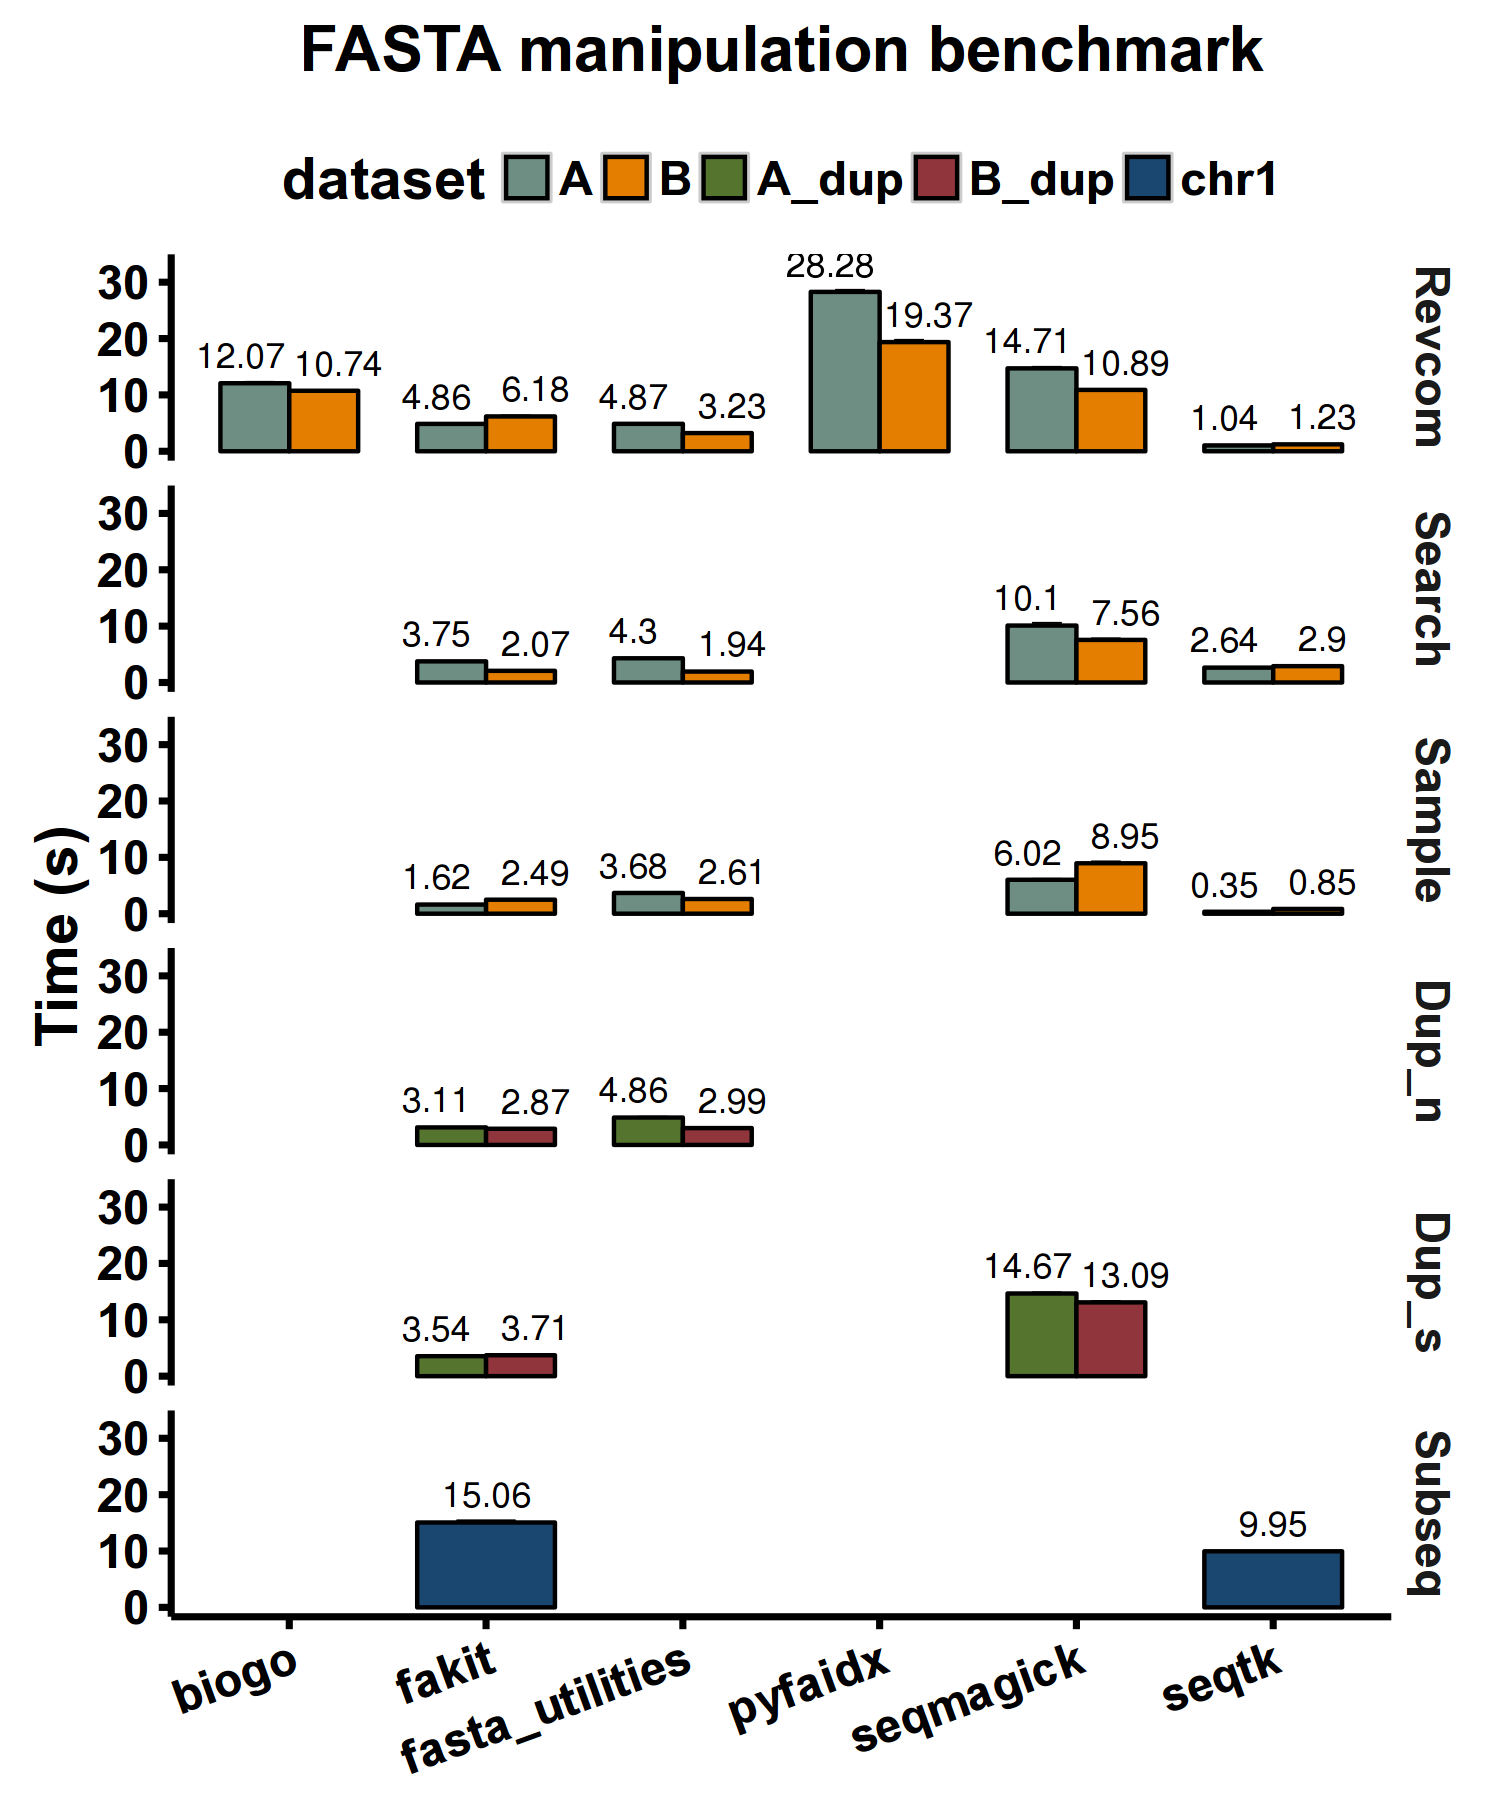
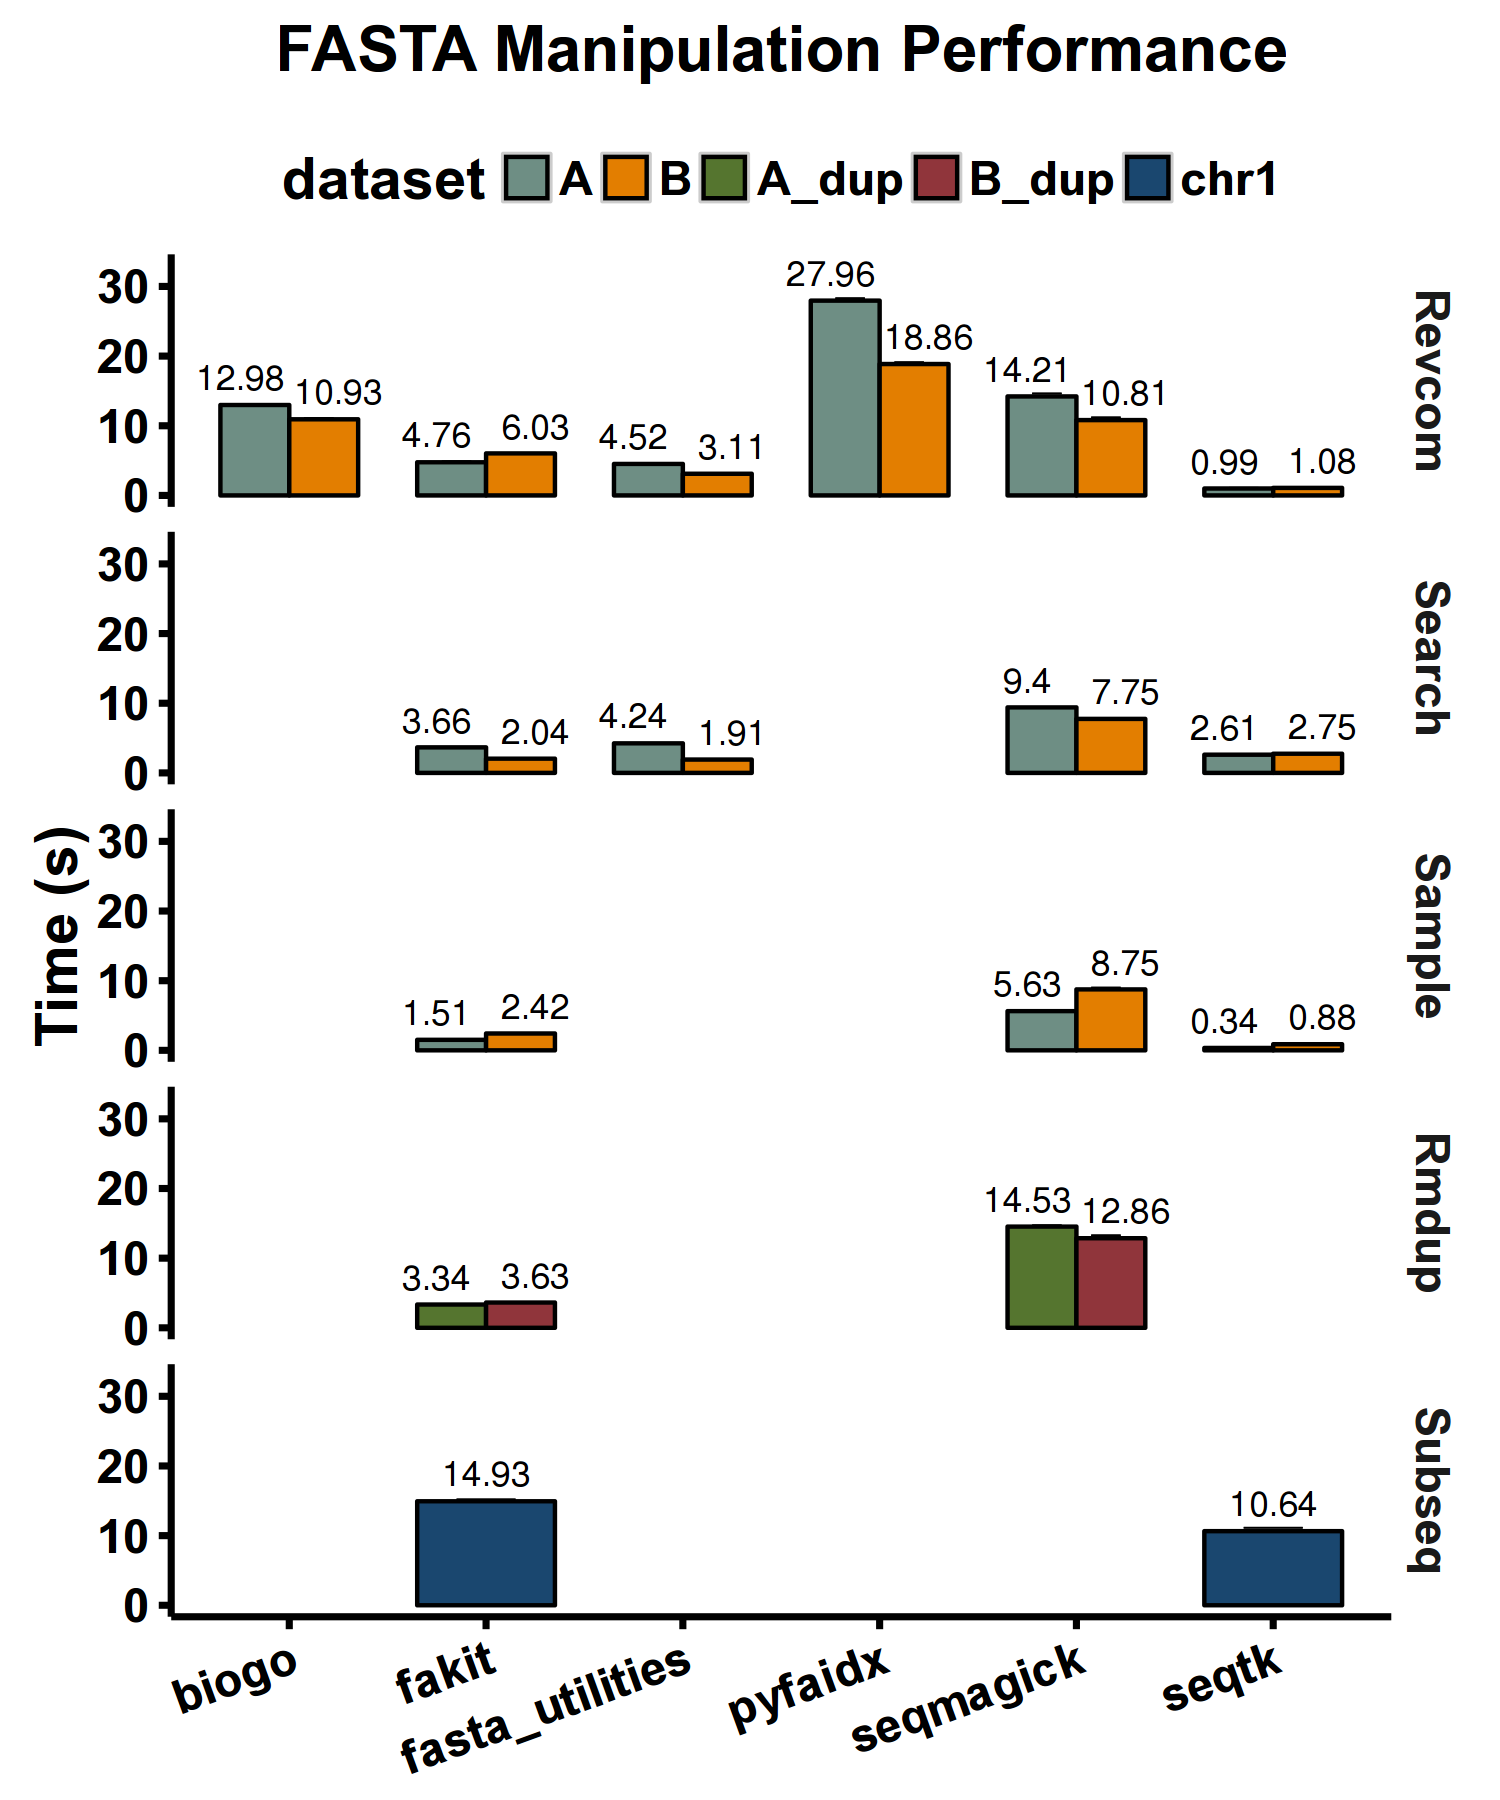
rerun benchmark with new version, add multi-threads benchmark

diff --git a/benchmark/index.html b/benchmark/index.html
@@ -143,7 +143,7 @@
         
             <li><a href="#platform">Platform</a></li>
         
-            <li><a href="#automatic-benchmark-script">Automatic benchmark script</a></li>
+            <li><a href="#automatic-benchmark-and-ploting-scripts">Automatic benchmark and ploting scripts</a></li>
         
             <li><a href="#test-1-reverse-complement">Test 1. Reverse Complement</a></li>
         
@@ -166,7 +166,7 @@
 <h2 id="softwares">Softwares</h2>
 <ol>
 <li><a href="https://github.com/shenwei356/fakit">fakit</a>. (Go).
-   Version <a href="https://github.com/shenwei356/fakit/releases/tag/v0.1.4">v0.1.4</a>.</li>
+   Version <a href="https://github.com/shenwei356/fakit/releases/tag/v0.1.4.1">v0.1.4.1</a>.</li>
 <li><a href="https://github.com/jimhester/fasta_utilities">fasta_utilities</a>. (Perl).
    Version <a href="https://github.com/jimhester/fasta_utilities/tree/3dcc0bc6bf1e97839476221c26984b1789482579">3dcc0bc</a>.
    Lots of dependencies to install_.</li>
@@ -213,7 +213,7 @@
 <td>Yes</td>
 </tr>
 <tr>
-<td align="left">Validate</td>
+<td align="left">Validate bases</td>
 <td>Yes</td>
 <td>--</td>
 <td>Yes</td>
@@ -258,7 +258,7 @@
 <td>--</td>
 </tr>
 <tr>
-<td align="left">Search</td>
+<td align="left">Search by motifs</td>
 <td>Yes</td>
 <td>Yes</td>
 <td>--</td>
@@ -267,7 +267,7 @@
 <td>Yes</td>
 </tr>
 <tr>
-<td align="left">Sample</td>
+<td align="left">Sample seqs</td>
 <td>Yes</td>
 <td>Yes</td>
 <td>--</td>
@@ -285,7 +285,7 @@
 <td>Yes</td>
 </tr>
 <tr>
-<td align="left">Deduplicate</td>
+<td align="left">Deduplicate seqs</td>
 <td>Yes</td>
 <td>Partly</td>
 <td>--</td>
@@ -294,7 +294,7 @@
 <td>--</td>
 </tr>
 <tr>
-<td align="left">Split</td>
+<td align="left">Split seqs</td>
 <td>Yes</td>
 <td>Yes</td>
 <td>--</td>
@@ -312,7 +312,7 @@
 <td>--</td>
 </tr>
 <tr>
-<td align="left">Shuffle</td>
+<td align="left">Shuffle seqs</td>
 <td>Yes</td>
 <td>--</td>
 <td>--</td>
@@ -321,9 +321,9 @@
 <td>--</td>
 </tr>
 <tr>
-<td align="left">Sort</td>
+<td align="left">Sort seqs</td>
 <td>Yes</td>
-<td>--</td>
+<td>Yes</td>
 <td>--</td>
 <td>--</td>
 <td>Yes</td>
@@ -348,7 +348,7 @@
 <td>--</td>
 </tr>
 <tr>
-<td align="left">Clean</td>
+<td align="left">Clean bases</td>
 <td>Yes</td>
 <td>Yes</td>
 <td>Yes</td>
@@ -384,7 +384,7 @@
 <td>--</td>
 </tr>
 <tr>
-<td align="left">Rename name</td>
+<td align="left">Rename head</td>
 <td>--</td>
 <td>Yes</td>
 <td>--</td>
@@ -460,14 +460,14 @@ dataset_B.fa         DNA           6    46,709,983    59,698,489    80,373,285
 <li>Perl: perl 5, version 22, subversion 1 (v5.22.1) built for x86_64-linux-thread-multi</li>
 <li>Python: Python 2.7.10 (default, Sep  8 2015, 17:20:17) [GCC 5.1.1 20150618 (Red Hat 5.1.1-4)] on linux2</li>
 </ul>
-<h2 id="automatic-benchmark-script">Automatic benchmark script</h2>
+<h2 id="automatic-benchmark-and-ploting-scripts">Automatic benchmark and ploting scripts</h2>
 <p>Scripts are available at:  <a href="https://github.com/shenwei356/fakit/tree/master/benchmark">https://github.com/shenwei356/fakit/tree/master/benchmark</a></p>
 <h2 id="test-1-reverse-complement">Test 1. Reverse Complement</h2>
 <h3 id="commands">Commands</h3>
-<p><code>revcom_biogo</code>, a tool written in Golang using <a href="https://github.com/biogo/biogo">biogo</a> package
- (<a href="https://github.com/shenwei356/fakit/blob/master/benchmark/revcom_biogo.go">source</a>,
- <a href="https://github.com/shenwei356/fakit/raw/master/benchmark/revcom_biogo">binary</a> )
-is also used.</p>
+<p><code>revcom_biogo</code> (<a href="https://github.com/shenwei356/fakit/blob/master/benchmark/revcom_biogo.go">source</a>,
+ <a href="https://github.com/shenwei356/fakit/raw/master/benchmark/revcom_biogo">binary</a> ), 
+ a tool written in Golang using <a href="https://github.com/biogo/biogo">biogo</a> package,
+ is also used for comparison of FASTA file parsing performance.</p>
 <pre><code>echo == fakit
 for f in dataset_{A,B}.fa; do echo data: $f; time fakit seq -r -p $f &gt; $f.fakit.rc; done
 
@@ -567,14 +567,6 @@ echo == seqmagick
 for f in dataset_{A,B}_dup.fasta; do echo data: $f; time seqmagick convert --deduplicate-sequences $f - &gt; $f.rmdup.seqmagick.fa; done
 </code></pre>
 
-<p>By name</p>
-<pre><code>echo == fakit
-for f in dataset_{A,B}_dup.fasta; do echo data: $f; time fakit rmdup -n $f &gt; $f.rmdup.fakit.fa; done
-
-echo == fasta_utilities
-for f in dataset_{A,B}_dup.fasta; do echo data: $f; time unique_headers.pl $f &gt; $f.rmdup.fautil.fa; done
-</code></pre>
-
 <h2 id="test-5-extract-subsequencs-by-bed-file">Test 5. Extract subsequencs by BED file</h2>
 <h3 id="commands_4">Commands</h3>
 <pre><code>echo ==  fakit
@@ -586,7 +578,12 @@ echo data: chr1.fa.gz; time seqtk subseq chr1.fa.gz chr1.bed.gz &gt; chr1.bed.gz
 
 <p>TODO: bedtools</p>
 <h2 id="result">Result</h2>
-<p><img alt="benchmark_colorful.png" src="../benchmark/benchmark_colorful.png" /></p></div>
+<p>All tests were repeated 4 times.</p>
+<h3 id="performance-comparison-with-other-tools">Performance comparison with other tools</h3>
+<p>Fakit used all CPUs (4 for my computer) by default.</p>
+<p><img alt="benchmark_colorful.png" src="../benchmark/benchmark_colorful.png" /></p>
+<h3 id="speedup-with-multi-threads">Speedup with multi-threads</h3>
+<p><img alt="benchmark_colorful.png" src="../benchmark/fakit_multi_threads/benchmark_colorful.png" /></p></div>
             
         </div>
 

diff --git a/index.html b/index.html
@@ -158,19 +158,30 @@
 <p>Documents  : <a href="http://shenwei356.github.io/fakit">http://shenwei356.github.io/fakit</a></p>
 <p>Source code: <a href="https://github.com/shenwei356/fakit">https://github.com/shenwei356/fakit</a></p>
 <h2 id="introduction">Introduction</h2>
+<p>FASTA is a basic format for storing nucleotide and protein sequences. 
+The manipulation of FASTA file includes converting, clipping, searching, filtering,
+deduplication, splitting, shuffling, sampling and so on. 
+Existed tools only implemented parts of the functions,
+and some of them are only available for specific operating systems. 
+Furthermore, the complicated installation process of dependencies packages and
+running environment also make them less friendly to common users.</p>
+<p>Fakit is cross-platform, efficient, and practical FASTA manipulations tool 
+that is friendly for researchers to complete wide ranges of FASTA file processing. 
+The suite supports plain or gzip-compressed input and output
+from either standard stream or files, therefore, it could be easily used in pipelines.</p>
 <h2 id="features">Features</h2>
 <ul>
 <li><strong>Cross-platform</strong> (Linux/Windows/Mac OS X/OpenBSD/FreeBSD,
   see <a href="http://shenwei356.github.io/fakit/download/">download</a>)</li>
 <li><strong>Light weight and out-of-the-box, no dependencies, no compilation, no configuration</strong>
   (see <a href="http://shenwei356.github.io/fakit/download/">download</a>)</li>
-<li><strong>Fast</strong> (see <a href="http://shenwei356.github.io/fakit/benchmark/">benchmark</a>),
-  <strong>multiple-threads supported</strong>, more significant speedup for <code>grep</code> and <code>locate</code>.</li>
-<li><strong>Practical functions by 14 subcommands</strong> (see subcommands and
+<li><strong>Fast</strong> (see <a href="./#performance-comparison-with-other-tools">benchmark</a>),
+  <strong>multiple-threads supported</strong> (see <a href="./#speedup-with-multi-threads">benchmark</a>).</li>
+<li><strong>Practical functions supported by 14 subcommands</strong> (see subcommands and
   <a href="http://shenwei356.github.io/fakit/usage/">usage</a> )</li>
 <li><strong>Well documented</strong> (detailed <a href="http://shenwei356.github.io/fakit/usage/">usage</a>
   and <a href="http://shenwei356.github.io/fakit/benchmark/">benchmark</a> )</li>
-<li><strong>Support STDIN and gziped input/output file, could be used in pipe</strong></li>
+<li><strong>Support STDIN and gziped input/output file, easy being used in pipe</strong></li>
 <li>Support custom sequence ID regular expression (especially useful for quering with ID list)</li>
 <li>Reproducible results (configurable rand seed in <code>sample</code> and <code>shuffle</code>)</li>
 <li>Well organized source code, friendly to use and easy to extend.</li>
@@ -208,7 +219,7 @@
 <td>Yes</td>
 </tr>
 <tr>
-<td align="left">Validate</td>
+<td align="left">Validate bases</td>
 <td>Yes</td>
 <td>--</td>
 <td>Yes</td>
@@ -253,7 +264,7 @@
 <td>--</td>
 </tr>
 <tr>
-<td align="left">Search</td>
+<td align="left">Search by motifs</td>
 <td>Yes</td>
 <td>Yes</td>
 <td>--</td>
@@ -262,7 +273,7 @@
 <td>Yes</td>
 </tr>
 <tr>
-<td align="left">Sample</td>
+<td align="left">Sample seqs</td>
 <td>Yes</td>
 <td>Yes</td>
 <td>--</td>
@@ -280,16 +291,16 @@
 <td>Yes</td>
 </tr>
 <tr>
-<td align="left">Deduplicate</td>
+<td align="left">Deduplicate seqs</td>
 <td>Yes</td>
-<td>Partly</td>
+<td>--</td>
 <td>--</td>
 <td>--</td>
 <td>Partly</td>
 <td>--</td>
 </tr>
 <tr>
-<td align="left">Split</td>
+<td align="left">Split seqs</td>
 <td>Yes</td>
 <td>Yes</td>
 <td>--</td>
@@ -307,7 +318,7 @@
 <td>--</td>
 </tr>
 <tr>
-<td align="left">Shuffle</td>
+<td align="left">Shuffle seqs</td>
 <td>Yes</td>
 <td>--</td>
 <td>--</td>
@@ -316,9 +327,9 @@
 <td>--</td>
 </tr>
 <tr>
-<td align="left">Sort</td>
+<td align="left">Sort seqs</td>
 <td>Yes</td>
-<td>--</td>
+<td>Yes</td>
 <td>--</td>
 <td>--</td>
 <td>Yes</td>
@@ -343,7 +354,7 @@
 <td>--</td>
 </tr>
 <tr>
-<td align="left">Clean</td>
+<td align="left">Clean bases</td>
 <td>Yes</td>
 <td>Yes</td>
 <td>Yes</td>
@@ -379,7 +390,7 @@
 <td>--</td>
 </tr>
 <tr>
-<td align="left">Rename name</td>
+<td align="left">Rename head</td>
 <td>--</td>
 <td>Yes</td>
 <td>--</td>
@@ -434,7 +445,11 @@
 <p><a href="http://shenwei356.github.io/fakit/usage/">http://shenwei356.github.io/fakit/usage/</a></p>
 <h2 id="benchmark">Benchmark</h2>
 <p>Details: <a href="http://blog.shenwei.me/fakit/benchmark/">http://shenwei356.github.io/fakit/benchmark/</a></p>
+<h3 id="performance-comparison-with-other-tools">Performance comparison with other tools</h3>
+<p>All tests were repeated 4 times</p>
 <p><img alt="benchmark_colorful.png" src="./benchmark/benchmark_colorful.png" /></p>
+<h3 id="speedup-with-multi-threads">Speedup with multi-threads</h3>
+<p><img alt="benchmark_colorful.png" src="./benchmark/fakit_multi_threads/benchmark_colorful.png" /></p>
 <h2 id="contact">Contact</h2>
 <p>Email me for any problem when using fakit. shenwei356(at)gmail.com</p>
 <p><a href="https://github.com/shenwei356/fakit/issues">Create an issue</a> to report bugs,
@@ -487,5 +502,5 @@ propose new functions or ask for help.</p>
 
 <!--
 MkDocs version : 0.15.3
-Build Date UTC : 2016-03-25 11:22:15.283610
+Build Date UTC : 2016-03-26 14:42:13.234576
 -->

diff --git a/download/index.html b/download/index.html
@@ -152,11 +152,9 @@
   in <a href="https://github.com/shenwei356/fakit/releases">release</a> page.</p>
 <h2 id="current-version">Current Version</h2>
 <ul>
-<li><a href="https://github.com/shenwei356/fakit/releases/tag/v0.1.4">fakit v0.1.4</a><ul>
-<li>add subcommand <code>sort</code></li>
-<li>improve subcommand <code>subseq</code>: supporting of getting subsequences by GTF and BED files</li>
-<li>change name format of <code>sliding</code> result</li>
-<li>prettier output of <code>stat</code></li>
+<li><a href="https://github.com/shenwei356/fakit/releases/tag/v0.1.4.1">fakit v0.1.4.1</a><ul>
+<li>change alignment of <code>stat</code> output</li>
+<li>preciser CPUs number control</li>
 </ul>
 </li>
 </ul>
@@ -182,6 +180,13 @@ echo export PATH=\$PATH:/PATH/OF/FASTCOV &gt;&gt; ~/.bashrc
 </ol>
 <h2 id="previous-versions">Previous Versions</h2>
 <ul>
+<li><a href="https://github.com/shenwei356/fakit/releases/tag/v0.1.4">fakit v0.1.4</a><ul>
+<li>add subcommand <code>sort</code></li>
+<li>improve subcommand <code>subseq</code>: supporting of getting subsequences by GTF and BED files</li>
+<li>change name format of <code>sliding</code> result</li>
+<li>prettier output of <code>stat</code></li>
+</ul>
+</li>
 <li><a href="https://github.com/shenwei356/fakit/releases/tag/v0.1.3.1">fakit v0.1.3.1</a><ul>
 <li>Performance improvement by reducing time of cleaning spaces</li>
 <li>Document update</li>
